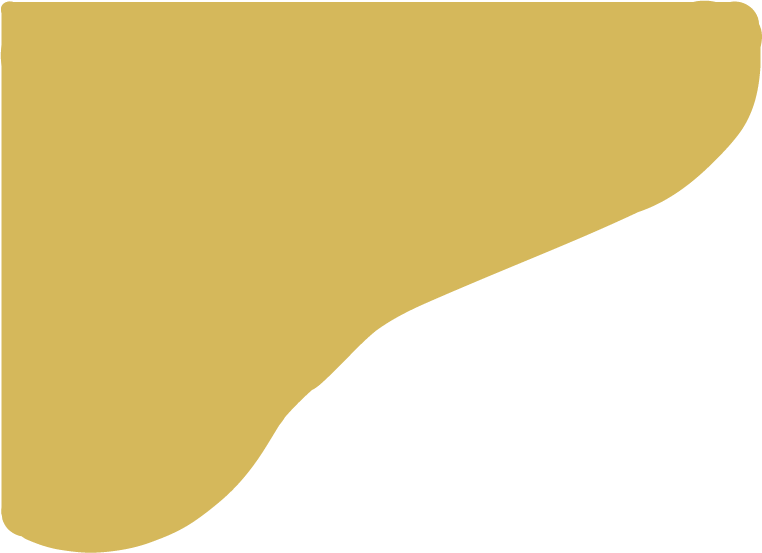
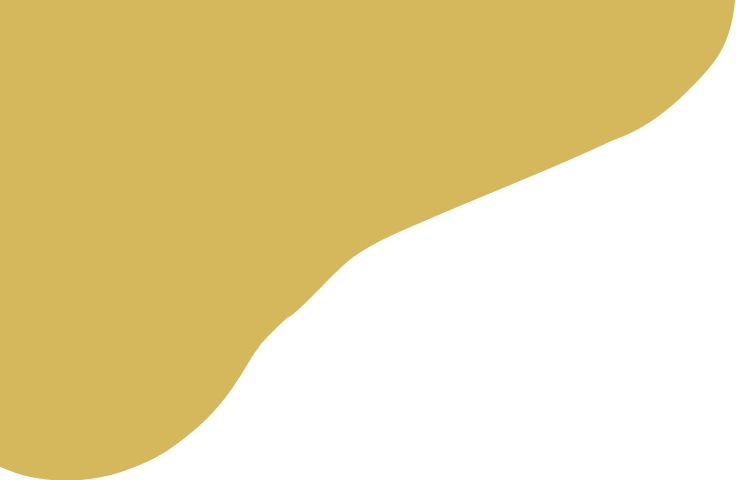
Ballet by Birgitte
- tilføjelse af Ballet by Birgitte
- beskæring af baggrunds billede
- tilføjelse af skærmbillede til Ballet by Birgitte case

Changed region(s): [[0.125, 0.0, 1.0, 1.0], [0.0, 0.0, 0.9062, 0.0312], [0.0, 0.9375, 0.0938, 1.0]]

diff --git a/bbb.html b/bbb.html
@@ -6,7 +6,29 @@
     <title>Ballet by Birgitte</title>
     <link rel="stylesheet" href="style.css">
 </head>
+
+
 <body>
-    
+    <header>
+        <div class="dropdown">
+        <img class="menu" src="images/burgermenu-sort.png" alt="menu">
+            <div class="dropdown-content">
+            <a href="index.html">Forside</a>
+            <a href="cases.html">Cases</a>
+            <a href="foto.html">Fotografi</a>
+            <a href="om-mig.html">Om mig</a>
+            <a href="fritidsprojekter.html">Fritids projekter</a>
+            </div>
+            <h1>Ballet by Birgitte</h1>
+      </div>
+    </header>
+
+    <section class="grid">
+        <div class="bbb">
+            <h6>Mobil format</h6>
+            <img src="images/bbb.jpg" alt="skærmbillede" width="100%">
+        </div>
+    </section>
+
 </body>
 </html>

diff --git a/cases.html b/cases.html
@@ -37,6 +37,12 @@
         </div>
 
         <div class="cases">
+            <h6>Ballet by Birgitte</h6>
+            <img src="images/bbb2.png" alt="Ballet by Birgitte" width="100%">
+            <a href="bbb.html">Læs mere</a>
+        </div>
+
+        <div class="cases">
             <h6>Bollywood</h6>
             <img src="images/Bollywood.png" alt="Bollywood Sway" width="100%">
             <a href="bollywood.html">Læs mere</a>

diff --git a/style.css b/style.css
@@ -172,6 +172,7 @@ h1{
 
 .cases img{
     border-radius: 7px;
+    margin-bottom: 10px;
 }
 
 .cases a{
@@ -283,6 +284,15 @@ h2{
 .boks2 h2{
     color: var(--bg);
 }
+
+/*BALLET BY BIRGITTE*/
+.bbb{
+    grid-column-start: 1;
+    grid-column-end: 5;
+    margin: 30px;
+}
+
+
 
 /*FRITIDSPROJEKTER*/
 .fritid{
